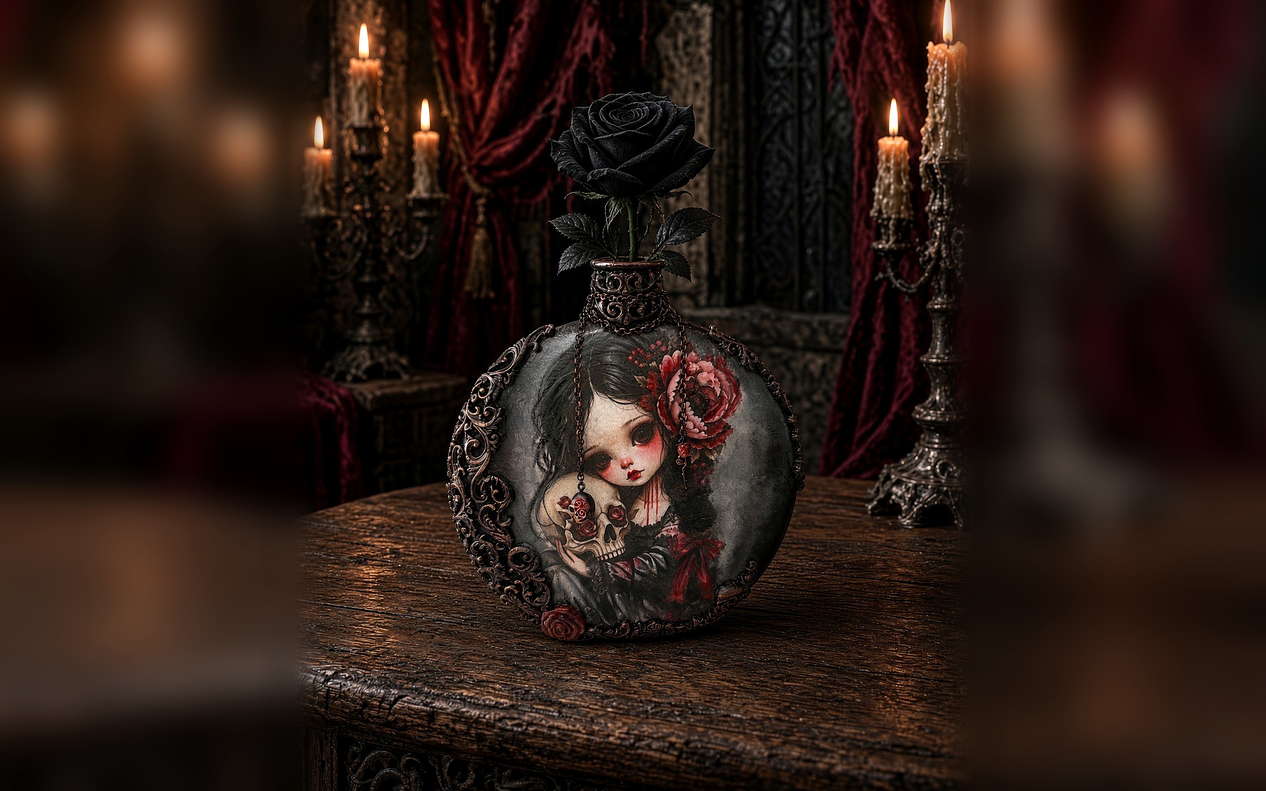
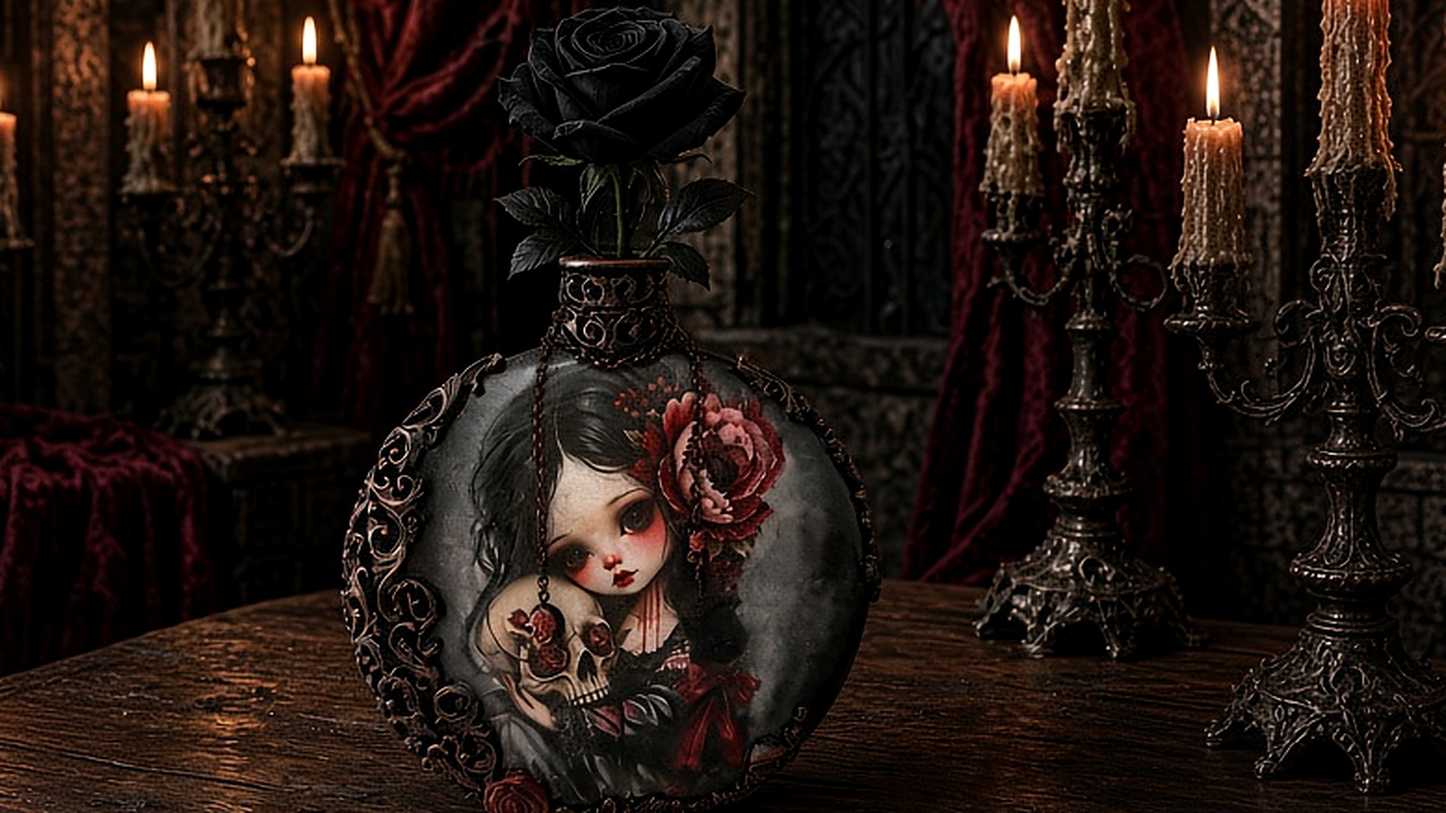
Hero: Gothic Romance as slide 3 with closer, unblurred photos; Gothic Portraits removed from hero

diff --git a/index.html b/index.html
@@ -51,29 +51,26 @@ document.addEventListener('click',function(e){var a=e.target.closest&&e.target.c
 <main id="main">
 <h1 class="rd-sr">TRESORA · gifts inspired by cities and art</h1>
 <section class="rd-slides" data-rd-slides aria-roledescription="carousel" aria-label="Featured gifts">
-  <div class="rd-slides__track" aria-live="off"><figure class="rd-slide is-active rd-slide--cover" data-rd-slide aria-roledescription="slide" aria-label="1 of 7: Amalfi">
+  <div class="rd-slides__track" aria-live="off"><figure class="rd-slide is-active rd-slide--cover" data-rd-slide aria-roledescription="slide" aria-label="1 of 6: Amalfi">
     <picture style="display:contents"><source media="(max-aspect-ratio:1/1)" srcset="/redesign/shared/products/amalfi-hero-mobile.jpg"><img class="rd-slide__img" src="/redesign/shared/products/amalfi-hero-wide.jpg" alt="The open Amalfi gift box: lemon-print scarf, straw mini bag, majolica compact mirror, Vespa charm with pearls, lipstick case and charm necklace" style="--pos-d:50% 50%;--pos-m:50% 50%" fetchpriority="high" decoding="async"></picture>
     <figcaption class="rd-slide__text"><span class="rd-slide__kicker">Inspired by City · 01</span><span class="rd-slide__city">Amalfi</span>
-      <a class="rd-slide__link" href="/products/amalfi-gift-box.html">Shop Amalfi</a><span class="rd-slide__price">Amalfi Gift Box · $49.00</span></figcaption></figure><figure class="rd-slide rd-slide--cover" data-rd-slide aria-roledescription="slide" aria-label="2 of 7: Caravaggio" aria-hidden="true">
+      <a class="rd-slide__link" href="/products/amalfi-gift-box.html">Shop Amalfi</a><span class="rd-slide__price">Amalfi Gift Box · $49.00</span></figcaption></figure><figure class="rd-slide rd-slide--cover" data-rd-slide aria-roledescription="slide" aria-label="2 of 6: Caravaggio" aria-hidden="true">
     <picture style="display:contents"><source media="(max-aspect-ratio:1/1)" srcset="/redesign/shared/products/caravaggio-green-hero-mobile.jpg"><img class="rd-slide__img" src="/redesign/shared/products/caravaggio-green-hero-wide.jpg" alt="The open Caravaggio Bacchus wine gift box: forest green cable-knit throw with satin ribbon, two wine glasses, wine opener set, reed diffuser and framed Bacchus print" style="--pos-d:50% 50%;--pos-m:50% 50%" loading="eager" decoding="async"></picture>
     <figcaption class="rd-slide__text"><span class="rd-slide__kicker">Inspired by Art · 02</span><span class="rd-slide__city">Caravaggio</span>
-      <a class="rd-slide__link" href="/products/caravaggio-bacchus-wine-gift-box.html" tabindex="-1">Shop Caravaggio</a><span class="rd-slide__price">Caravaggio Bacchus Wine Gift Box · $69.00</span></figcaption></figure><figure class="rd-slide rd-slide--cover" data-rd-slide aria-roledescription="slide" aria-label="3 of 7: Gothic Portraits" aria-hidden="true">
-    <img class="rd-slide__img" src="/redesign/shared/products/gothic-portraits-decorative-glass-vase-0.jpg" alt="Gothic Portraits handcrafted decorative glass vase with a painted portrait and red roses, on an antique mantel" style="--pos-d:50% 74%;--pos-m:55% 50%" loading="eager" decoding="async">
-    <figcaption class="rd-slide__text"><span class="rd-slide__kicker">Atelier Home · 03</span><span class="rd-slide__city rd-slide__city--long">Gothic Portraits</span>
-      <a class="rd-slide__link" href="/products/gothic-portraits-decorative-glass-vase.html" tabindex="-1">Shop Gothic Portraits</a><span class="rd-slide__price">Gothic Portraits Handcrafted Decorative Glass Vase · $50.00</span></figcaption></figure><figure class="rd-slide rd-slide--cover" data-rd-slide aria-roledescription="slide" aria-label="4 of 7: Paris" aria-hidden="true">
+      <a class="rd-slide__link" href="/products/caravaggio-bacchus-wine-gift-box.html" tabindex="-1">Shop Caravaggio</a><span class="rd-slide__price">Caravaggio Bacchus Wine Gift Box · $69.00</span></figcaption></figure><figure class="rd-slide rd-slide--cover" data-rd-slide aria-roledescription="slide" aria-label="3 of 6: Gothic Romance" aria-hidden="true">
+    <picture style="display:contents"><source media="(max-aspect-ratio:1/1)" srcset="/redesign/shared/products/gothic-romance-hero-mobile.jpg"><img class="rd-slide__img" src="/redesign/shared/products/gothic-romance-hero-wide.jpg" alt="Gothic Romance hand-decorated glass bottle with a black rose, on a carved wooden table between candelabra" style="--pos-d:50% 50%;--pos-m:50% 50%" loading="eager" decoding="async"></picture>
+    <figcaption class="rd-slide__text"><span class="rd-slide__kicker">Atelier Home · 03</span><span class="rd-slide__city rd-slide__city--long">Gothic Romance</span>
+      <a class="rd-slide__link" href="/products/gothic-romance-decorative-glass-bottle.html" tabindex="-1">Shop Gothic Romance</a><span class="rd-slide__price">Gothic Romance Handcrafted Decorative Glass Bottle · $65.00</span></figcaption></figure><figure class="rd-slide rd-slide--cover" data-rd-slide aria-roledescription="slide" aria-label="4 of 6: Paris" aria-hidden="true">
     <picture style="display:contents"><source media="(max-aspect-ratio:1/1)" srcset="/redesign/shared/products/paris-hero-mobile.jpg"><img class="rd-slide__img" src="/redesign/shared/products/paris-hero-wide.jpg" alt="The open Paris gift box: pearl beaded evening bag, black and white silk scarf, black lace bow, pearl bow earrings, doll charm and card" style="--pos-d:50% 50%;--pos-m:50% 50%" loading="eager" decoding="async"></picture>
     <figcaption class="rd-slide__text"><span class="rd-slide__kicker">Inspired by City · 04</span><span class="rd-slide__city">Paris</span>
-      <a class="rd-slide__link" href="/products/paris-gift-box.html" tabindex="-1">Shop Paris</a><span class="rd-slide__price">Paris Gift Box · $59.00</span></figcaption></figure><figure class="rd-slide rd-slide--cover" data-rd-slide aria-roledescription="slide" aria-label="5 of 7: Gothic Romance" aria-hidden="true">
-    <picture style="display:contents"><source media="(max-aspect-ratio:1/1)" srcset="/redesign/shared/products/gothic-romance-hero-mobile.jpg"><img class="rd-slide__img" src="/redesign/shared/products/gothic-romance-hero-wide.jpg" alt="Gothic Romance hand-decorated glass bottle with a black rose, on a carved wooden table between candelabra" style="--pos-d:50% 50%;--pos-m:50% 50%" loading="eager" decoding="async"></picture>
-    <figcaption class="rd-slide__text"><span class="rd-slide__kicker">Atelier Home · 05</span><span class="rd-slide__city rd-slide__city--long">Gothic Romance</span>
-      <a class="rd-slide__link" href="/products/gothic-romance-decorative-glass-bottle.html" tabindex="-1">Shop Gothic Romance</a><span class="rd-slide__price">Gothic Romance Handcrafted Decorative Glass Bottle · $65.00</span></figcaption></figure><figure class="rd-slide rd-slide--cover" data-rd-slide aria-roledescription="slide" aria-label="6 of 7: Crow &amp; Roses" aria-hidden="true">
+      <a class="rd-slide__link" href="/products/paris-gift-box.html" tabindex="-1">Shop Paris</a><span class="rd-slide__price">Paris Gift Box · $59.00</span></figcaption></figure><figure class="rd-slide rd-slide--cover" data-rd-slide aria-roledescription="slide" aria-label="5 of 6: Crow &amp; Roses" aria-hidden="true">
     <img class="rd-slide__img" src="/redesign/shared/products/crow-roses-decorative-bottle-0.jpg" alt="Crow &amp; Roses handcrafted decorative glass bottle with red and black roses, on an antique mantel" style="--pos-d:50% 76%;--pos-m:52% 50%" loading="eager" decoding="async">
-    <figcaption class="rd-slide__text"><span class="rd-slide__kicker">Atelier Home · 06</span><span class="rd-slide__city rd-slide__city--long">Crow &amp; Roses</span>
-      <a class="rd-slide__link" href="/products/crow-roses-decorative-bottle.html" tabindex="-1">Shop Crow &amp; Roses</a><span class="rd-slide__price">Crow &amp; Roses Handcrafted Decorative Glass Bottle · $40.00</span></figcaption></figure><figure class="rd-slide rd-slide--cover" data-rd-slide aria-roledescription="slide" aria-label="7 of 7: Sargent" aria-hidden="true">
+    <figcaption class="rd-slide__text"><span class="rd-slide__kicker">Atelier Home · 05</span><span class="rd-slide__city rd-slide__city--long">Crow &amp; Roses</span>
+      <a class="rd-slide__link" href="/products/crow-roses-decorative-bottle.html" tabindex="-1">Shop Crow &amp; Roses</a><span class="rd-slide__price">Crow &amp; Roses Handcrafted Decorative Glass Bottle · $40.00</span></figcaption></figure><figure class="rd-slide rd-slide--cover" data-rd-slide aria-roledescription="slide" aria-label="6 of 6: Sargent" aria-hidden="true">
     <img class="rd-slide__img" src="/redesign/shared/products/sargent-the-wineglasses-wine-gift-box-0.jpg" alt="The open John Sargent The Wineglasses gift box: two stemless wine glasses, cheese board and knives, pearl tulle, candle and framed print" style="--pos-d:50% 62%;--pos-m:52% 50%" loading="eager" decoding="async">
-    <figcaption class="rd-slide__text"><span class="rd-slide__kicker">Inspired by Art · 07</span><span class="rd-slide__city">Sargent</span>
+    <figcaption class="rd-slide__text"><span class="rd-slide__kicker">Inspired by Art · 06</span><span class="rd-slide__city">Sargent</span>
       <a class="rd-slide__link" href="/products/sargent-the-wineglasses-wine-gift-box.html" tabindex="-1">Shop Sargent</a><span class="rd-slide__price">John Sargent The Wineglasses Gift Box · $59.00</span></figcaption></figure></div>
-  <div class="rd-slides__nav" role="group" aria-label="Choose a slide"><button type="button" class="rd-dot" data-rd-dot="0" aria-label="Show Amalfi" aria-current="true"><span></span></button><button type="button" class="rd-dot" data-rd-dot="1" aria-label="Show Caravaggio"><span></span></button><button type="button" class="rd-dot" data-rd-dot="2" aria-label="Show Gothic Portraits"><span></span></button><button type="button" class="rd-dot" data-rd-dot="3" aria-label="Show Paris"><span></span></button><button type="button" class="rd-dot" data-rd-dot="4" aria-label="Show Gothic Romance"><span></span></button><button type="button" class="rd-dot" data-rd-dot="5" aria-label="Show Crow &amp; Roses"><span></span></button><button type="button" class="rd-dot" data-rd-dot="6" aria-label="Show Sargent"><span></span></button></div>
+  <div class="rd-slides__nav" role="group" aria-label="Choose a slide"><button type="button" class="rd-dot" data-rd-dot="0" aria-label="Show Amalfi" aria-current="true"><span></span></button><button type="button" class="rd-dot" data-rd-dot="1" aria-label="Show Caravaggio"><span></span></button><button type="button" class="rd-dot" data-rd-dot="2" aria-label="Show Gothic Romance"><span></span></button><button type="button" class="rd-dot" data-rd-dot="3" aria-label="Show Paris"><span></span></button><button type="button" class="rd-dot" data-rd-dot="4" aria-label="Show Crow &amp; Roses"><span></span></button><button type="button" class="rd-dot" data-rd-dot="5" aria-label="Show Sargent"><span></span></button></div>
   <p class="rd-slides__social rd-socicons"><a href="https://www.instagram.com/tresora.gift/" target="_blank" rel="noopener" aria-label="Instagram" title="Instagram"><svg viewBox="0 0 24 24" aria-hidden="true"><rect x="3.5" y="3.5" width="17" height="17" rx="5"/><circle cx="12" cy="12" r="4"/><circle cx="17.2" cy="6.8" r=".6" fill="currentColor"/></svg></a><a href="https://www.tiktok.com/@tresorastore" target="_blank" rel="noopener" aria-label="TikTok" title="TikTok"><svg viewBox="0 0 24 24" aria-hidden="true"><path d="M14 3v11.5a3.5 3.5 0 1 1-3.5-3.5"/><path d="M14 3c.4 2.8 2.2 4.6 5 5"/></svg></a><a href="https://www.facebook.com/TRESORAgifts" target="_blank" rel="noopener" aria-label="Facebook" title="Facebook"><svg viewBox="0 0 24 24" aria-hidden="true"><path d="M14.5 21v-8h3l.5-3.5h-3.5V7.6c0-1 .4-1.6 1.7-1.6H18V3.2A20 20 0 0 0 15.6 3c-2.6 0-4.1 1.5-4.1 4.2v2.3H8.5V13h3v8"/></svg></a><a href="https://www.pinterest.com/TRESORAgift/" target="_blank" rel="noopener" aria-label="Pinterest" title="Pinterest"><svg viewBox="0 0 24 24" aria-hidden="true"><circle cx="12" cy="12" r="8.5"/><path d="M10.8 20.2 12.6 13"/><path d="M11.3 15c.6.5 1.3.8 2.1.8 2.3 0 3.6-2 3.6-4.3 0-2.6-2.1-4.3-4.8-4.3-3 0-5 2-5 4.5 0 1.1.5 2.2 1.3 2.6"/></svg></a><a href="https://www.etsy.com/shop/TRESORAgift" target="_blank" rel="noopener" aria-label="Etsy" title="Etsy"><svg viewBox="0 0 24 24" aria-hidden="true"><path d="M16.5 5H8v14h8.5"/><path d="M8 12h6"/><path d="M16.5 5v2.5M16.5 19v-2.5"/></svg></a><a href="https://tresora.store" target="_blank" rel="noopener" aria-label="Main store" title="Main store"><svg viewBox="0 0 24 24" aria-hidden="true"><path d="M5 8h14l-1 13H6L5 8Z"/><path d="M9 8V6a3 3 0 0 1 6 0v2"/><path d="M13.6 12.2c-.4-.4-1-.6-1.6-.6-.9 0-1.6.5-1.6 1.2 0 1.6 3.4.9 3.4 2.6 0 .8-.8 1.3-1.8 1.3-.7 0-1.3-.2-1.8-.7"/></svg></a></p>
   <button type="button" class="rd-slides__pause" data-rd-pause aria-label="Pause slideshow" aria-pressed="false"><span></span></button>
 </section>

diff --git a/tools/hero_slides.py b/tools/hero_slides.py
@@ -11,12 +11,10 @@ SLIDES = [
    "The open Amalfi gift box: lemon-print scarf, straw mini bag, majolica compact mirror, Vespa charm with pearls, lipstick case and charm necklace", "Inspired by City"),
   ("Caravaggio", "caravaggio-bacchus-wine-gift-box", "caravaggio-green-hero-wide.jpg",
    "The open Caravaggio Bacchus wine gift box: forest green cable-knit throw with satin ribbon, two wine glasses, wine opener set, reed diffuser and framed Bacchus print", "Inspired by Art"),
-  ("Gothic Portraits", "gothic-portraits-decorative-glass-vase", "gothic-portraits-decorative-glass-vase-0.jpg",
-   "Gothic Portraits handcrafted decorative glass vase with a painted portrait and red roses, on an antique mantel", "Atelier Home"),
-  ("Paris", "paris-gift-box", "paris-hero-wide.jpg",
-   "The open Paris gift box: pearl beaded evening bag, black and white silk scarf, black lace bow, pearl bow earrings, doll charm and card", "Inspired by City"),
   ("Gothic Romance", "gothic-romance-decorative-glass-bottle", "gothic-romance-hero-wide.jpg",
    "Gothic Romance hand-decorated glass bottle with a black rose, on a carved wooden table between candelabra", "Atelier Home"),
+  ("Paris", "paris-gift-box", "paris-hero-wide.jpg",
+   "The open Paris gift box: pearl beaded evening bag, black and white silk scarf, black lace bow, pearl bow earrings, doll charm and card", "Inspired by City"),
   ("Crow & Roses", "crow-roses-decorative-bottle", "crow-roses-decorative-bottle-0.jpg",
    "Crow & Roses handcrafted decorative glass bottle with red and black roses, on an antique mantel", "Atelier Home"),
   ("Sargent", "sargent-the-wineglasses-wine-gift-box", "sargent-the-wineglasses-wine-gift-box-0.jpg",
